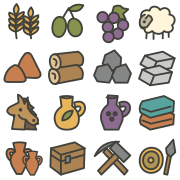
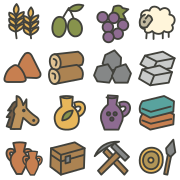
Refine horse silhouette and slim hammer heads (R-0385)

Changed region(s): [[0.0278, 0.5, 0.2222, 0.75], [0.5833, 0.7778, 0.75, 0.9167]]

diff --git a/docs/graphics.md b/docs/graphics.md
@@ -1,5 +1,14 @@
 # Grafické podklady a jejich použití v MicroCol
 
+## Kůň a kladiva — oprava siluety, 1. listopadu 2026
+
+1. [R-0385](requirements/done/R-0385.md) opravuje uživatelem označený tvar koně ve vybrané sadě 15: jediný čenich směřuje doprava, krk pokračuje dolů a hříva leží za hlavou. Hlavy obou kladiv — v nástrojích i samostatné produkci — jsou o něco tenčí. Styl, barvy, násady a všechny herní hodnoty zůstávají zachované.
+2. Upravené zdroje `good-horse.svg`, `good-tools.svg` a `good-hammer.svg` obsahují pouze ručně nakreslené vektorové cesty s plnými barvami. [Stávající export](#recke-zbozi-vyrazna-linka-1-listopadu-2026) obnovuje atlas a samostatné obrázky; druhý export dal stejné SHA-256 všech čtyř PNG. Změnily se pouze atlas a PNG kladiva. Přehled ukazuje zvětšení, 45 px a 22 px.
+
+![Opravený kůň a užší kladiva](assets/greek-goods-refinement-2026-11-01/preview.png)
+
+3. Cílené Docker/Xvfb ověření na základu `76ee5f87` s touto opravou: **7 testů, 0 selhání, 0 chyb, 0 vynechání**. Výběr: `GoodsArtworkTest` (2), `PageVerificationContractTest` (3), `TC_06_F06_buy_and_sell_goods_test#TC_06_moving_goods` (1), `TC_54_F45_shared_hammers_test` (1). Běh `20261101T122505Z-75492b776f28`, PID `52412`, limit 900 s, dokončen za 121,981 s, callback `queued`; čerstvé reporty `target/docker-ui/run-1eVQLp`. Zkontrolované skutečné snímky: [obchod](assets/greek-goods-refinement-2026-11-01/europe.png), [produkce a náklad](assets/greek-goods-refinement-2026-11-01/colony.png). Všech 9 dokumentačních kontrol a strict MkDocs prošlo; logy `target/r0385/`. Platí uživatelem zadaná minimální okolní přejímka bez smoke a celé modelové/regresní sady; vzdálená publikace se neověřuje.
+
 ## Řecké zboží — výrazná linka, 1. listopadu 2026
 
 1. Uživatel vybral **návrh 15 — Výrazná linka**: stručné, roztomilé ruční obrysy a jednobarevné výplně podle herní mapy. [R-0384](requirements/done/R-0384.md) vlastní tuto výměnu všech 19 obrázků. [Vybraná rastrová předloha](assets/greek-goods-15-2026-11-01/selected-reference.png) je pouze výtvarná reference; následující přehled vznikl ze skutečných SVG.

diff --git a/docs/requirements/done/R-0385.md b/docs/requirements/done/R-0385.md
@@ -1,0 +1,29 @@
+# R-0385 — Clear horse silhouette and slimmer hammer heads
+
+1. Status: done
+2. Updated: 2026-11-01
+3. Related: [selected Greek goods artwork](R-0384.md), [graphics contract](../../graphics.md#zdrojovy-format-herni-grafiky).
+4. Dependencies: existing shared goods atlas and standalone hammer export.
+5. Primary area: [A03](../areas.md#a03).
+6. Related areas: none; goods identities and gameplay stay unchanged.
+7. Origin: user reported the malformed horse and requested a slightly narrower hammer head; the preceding isolated-worktree/minimal-verification/no-smoke workflow remains authorized.
+
+## 1. Summary
+
+1. Make the horse recognisable as one head in profile, and lighten the oversized hammer heads while preserving proposal 15's bold hand-drawn style.
+
+## 2. Behavior
+
+1. The horse icon has a single muzzle, a clear neck and a mane behind the head. It remains legible at the existing small sizes.
+2. Both the hammer in the tools icon shown in the screenshot and the standalone production hammer have slightly slimmer heads. Colors, handles, quantities and interactions remain unchanged.
+3. The updated artwork appears automatically wherever the shared goods images are used, without additional controls or confirmation.
+
+## 3. Implementation steps
+
+1. Edit only horse/tools/hammer SVG paths and re-export the shared atlas and hammer PNG through the existing documented export.
+2. Review enlarged, 45 px and 22 px previews and actual Docker/Xvfb screenshots. Run GoodsArtworkTest, PageVerificationContractTest, TC_06_F06_buy_and_sell_goods_test#TC_06_moving_goods and TC_54_F45_shared_hammers_test; documentation consistency and strict MkDocs. Full model/smoke/regression are waived by the user's continuing minimal-verification instruction.
+3. Accepted: seven targeted checks and nine documentation checks passed without failures/errors/skips; strict MkDocs passed. Repeat exports and actual screenshots reviewed. [Evidence](../../graphics.md#kun-a-kladiva-oprava-siluety-1-listopadu-2026). Remote publication is not verified.
+
+## 4. Open questions
+
+1. None.
